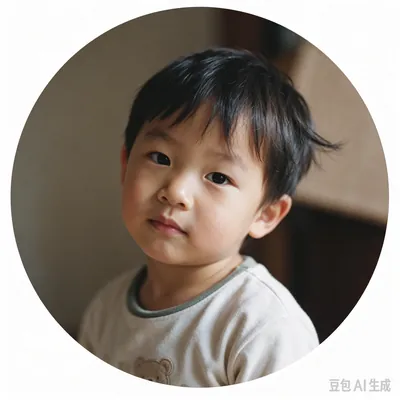
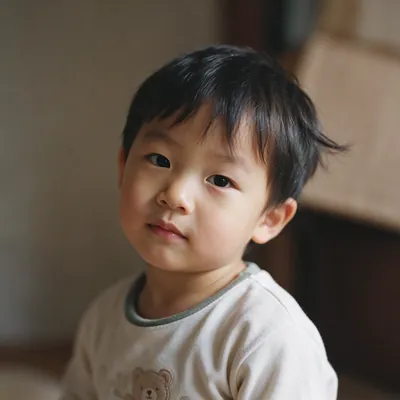
fix: 修复图片显示反复异常根因(v-lazy-bg统一cover/center/no-repeat)与截图头像硬编码绝对路径

diff --git a/src/views/Apps/WeChat/ChatWindow.vue b/src/views/Apps/WeChat/ChatWindow.vue
@@ -116,7 +116,7 @@ function sendScreenshot() {
               <template v-else-if="m.type === 'screenshot'">
                 <div class="wx-shot">
                   <div class="shot-head">谢晴</div>
-                  <div class="shot-row right"><span class="shot-av">遥</span><span class="shot-bub">姐姐，不要来找我，也不要为我担心。我不是一个好弟弟。你以后要照顾好自己。</span></div>
+                  <div class="shot-row right"><span class="shot-av" v-lazy-bg="images.avatar.xieyao"></span><span class="shot-bub">姐姐，不要来找我，也不要为我担心。我不是一个好弟弟。你以后要照顾好自己。</span></div>
                 </div>
               </template>
               <template v-else-if="m.type === 'image'">
@@ -170,7 +170,7 @@ function sendScreenshot() {
 .shot-head { text-align: center; color: #444; padding-bottom: 7px; border-bottom: 1px solid #dcdcdc; margin-bottom: 8px; font-size: 11px; }
 .shot-row { display: flex; align-items: flex-start; gap: 6px; margin: 6px 0; }
 .shot-row.right { flex-direction: row-reverse; }
-.shot-av { width: 20px; height: 20px; flex: 0 0 20px; border-radius: 3px; background: #cfe0d6; color: #46685a; display: grid; place-items: center; font-size: 10px; background-image: url('/images/xieyao-avatar.webp'); background-size: cover; background-position: center; color: transparent; }
+.shot-av { width: 20px; height: 20px; flex: 0 0 20px; border-radius: 3px; background: #cfe0d6; display: grid; place-items: center; }
 .shot-bub { max-width: 205px; background: #fff; border-radius: 4px; padding: 6px 8px; line-height: 1.55; word-break: break-word; text-align: left; }
 .shot-row.right .shot-bub { background: #95ec69; }
 .empty { text-align: center; color: #9aa7ab; margin-top: 60px; font-size: 13px; }

diff --git a/src/directives/lazyBg.js b/src/directives/lazyBg.js
@@ -13,19 +13,28 @@ function prefetch(url) {
   im.src = url
 }
 
+// 统一设置背景图的显示方式：cover / 居中 / 不平铺。
+// 之前只设 backgroundImage，导致以原尺寸平铺或裁切错位，看起来像"没加载/加载慢"。
+function applyBg(el, url) {
+  el.style.backgroundImage = `url(${url})`
+  el.style.backgroundSize = 'cover'
+  el.style.backgroundPosition = 'center'
+  el.style.backgroundRepeat = 'no-repeat'
+}
+
 export const vLazyBg = {
   mounted(el, binding) {
     if (!binding.value) return
     el.dataset.lazyBg = binding.value
     prefetch(binding.value)
-    el.style.backgroundImage = `url(${binding.value})`
+    applyBg(el, binding.value)
   },
   updated(el, binding) {
     if (!binding.value) return
     if (el.dataset.lazyBg === binding.value) return
     el.dataset.lazyBg = binding.value
     prefetch(binding.value)
-    el.style.backgroundImage = `url(${binding.value})`
+    applyBg(el, binding.value)
   }
 }
 
